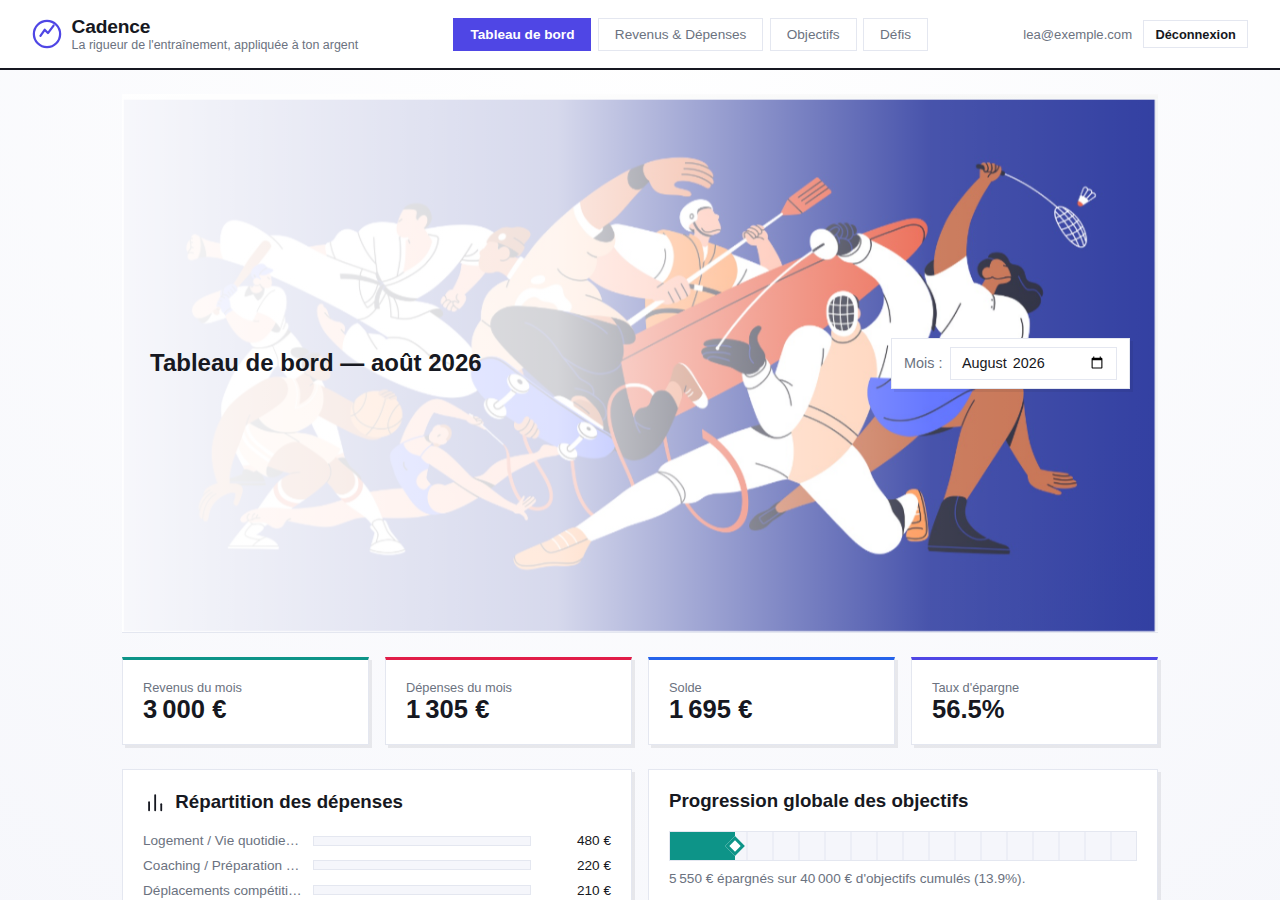
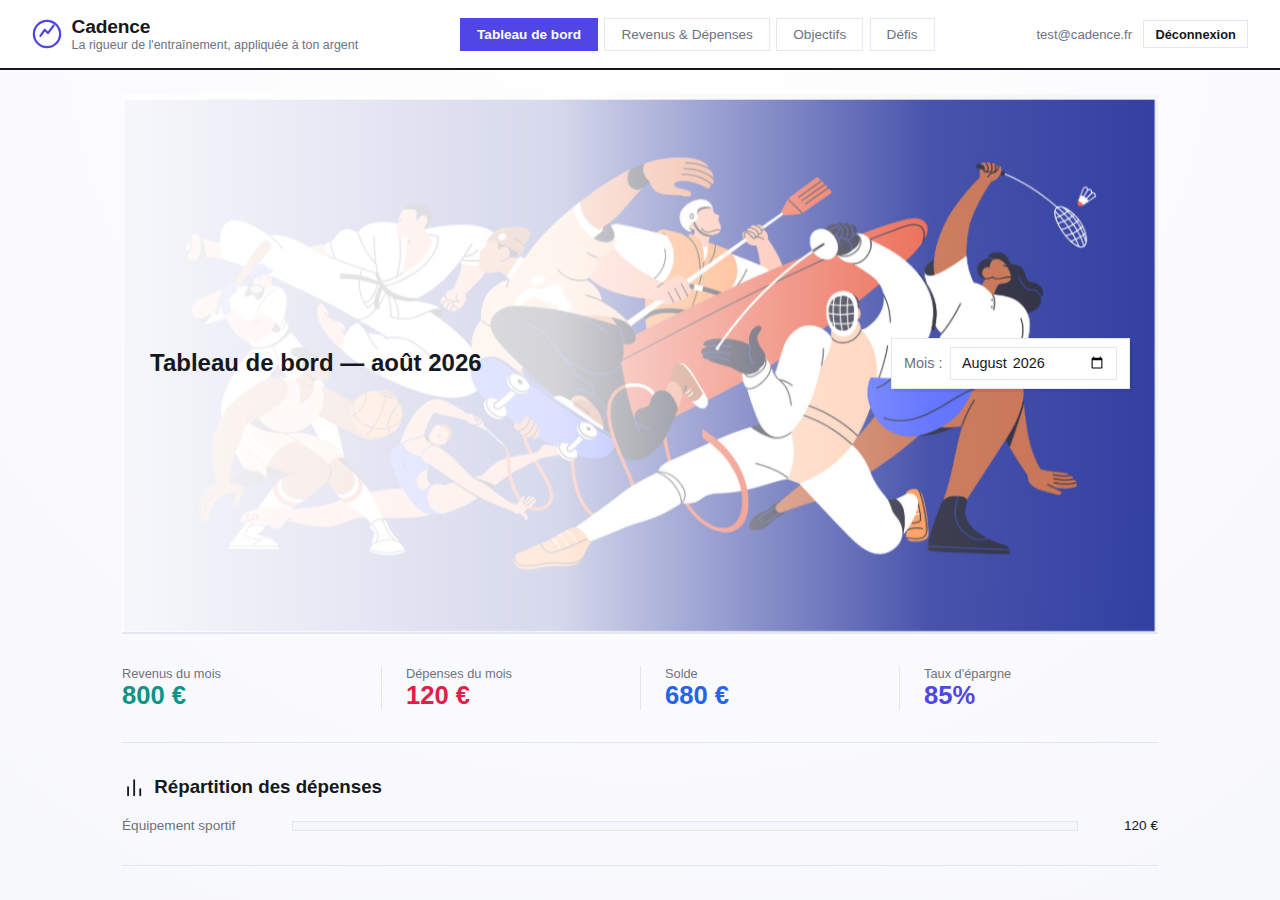
Régénère les captures d'aperçu de la landing page (#20)
* Ajoute un paramètre anti-cache sur les feuilles de style

Le nouveau design des cards était déjà en ligne, mais les navigateurs
gardaient l'ancien style.css en cache. Ajoute ?v=2 sur les liens CSS,
comme déjà fait pour les images.

* Remplace les cards par un design en liste séparée par des filets

Abandonne complètement l'esthétique "boîte" (fond, bordure, ombre) sur
les cards du dashboard, des objectifs, des défis et de la landing page.
Les blocs sont désormais empilés verticalement et séparés par un simple
filet fin, plus proche d'une liste structurée que d'une grille de cards
côte à côte. Angles vifs partout, aucun encadré. Bump du cache-busting
CSS en v=3.

* Régénère les captures d'aperçu de la landing page

Les captures preview-dashboard/objectifs/defis.png dataient de l'ancien
design en cards ; elles reflètent maintenant le nouveau design en liste
séparée par des filets (angles vifs, sans boîtes).

---------

diff --git a/index.html b/index.html
@@ -52,7 +52,7 @@
       <div class="browser-bar">
         <span class="browser-dot"></span><span class="browser-dot"></span><span class="browser-dot"></span>
       </div>
-      <img src="ressources/preview-dashboard.png?v=2" alt="Tableau de bord Cadence : revenus, dépenses, score de forme financière et simulateur de résistance blessure">
+      <img src="ressources/preview-dashboard.png?v=3" alt="Tableau de bord Cadence : revenus, dépenses, score de forme financière et simulateur de résistance blessure">
     </div>
   </section>
 
@@ -134,11 +134,11 @@
     <div class="preview-row">
       <div class="browser-frame">
         <div class="browser-bar"><span class="browser-dot"></span><span class="browser-dot"></span><span class="browser-dot"></span></div>
-        <img src="ressources/preview-objectifs.png?v=2" alt="Écran des objectifs d'épargne : fonds de reconversion, fonds blessure et projet post-carrière avec barres de progression">
+        <img src="ressources/preview-objectifs.png?v=3" alt="Écran des objectifs d'épargne : fonds de reconversion, fonds blessure et projet post-carrière avec barres de progression">
       </div>
       <div class="browser-frame">
         <div class="browser-bar"><span class="browser-dot"></span><span class="browser-dot"></span><span class="browser-dot"></span></div>
-        <img src="ressources/preview-defis.png?v=2" alt="Écran des défis d'épargne avec séries de jours à valider et statut de progression">
+        <img src="ressources/preview-defis.png?v=3" alt="Écran des défis d'épargne avec séries de jours à valider et statut de progression">
       </div>
     </div>
   </section>
